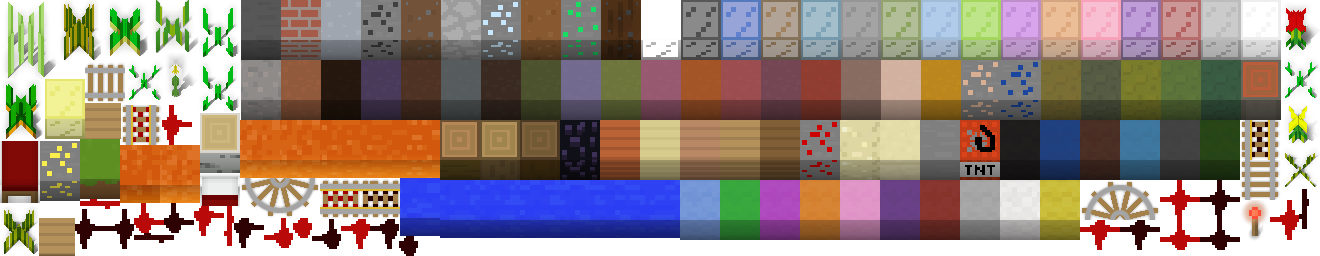
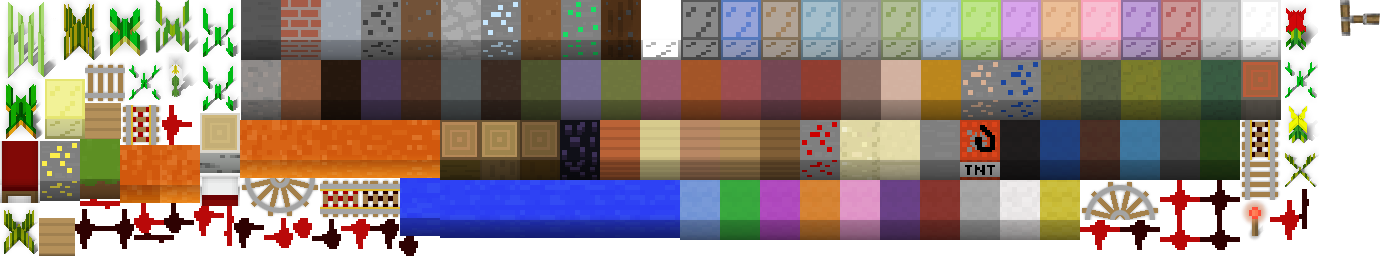
trying this interactive rebase thing

diff --git a/src/js/game/LevelMVC/LevelPlane.js b/src/js/game/LevelMVC/LevelPlane.js
@@ -87,11 +87,11 @@ module.exports = class LevelPlane extends Array {
   * Changes the block at a desired position to the desired block.
   * Important note: This is the cornerstone of block placing/destroying.
   */
-  setBlockAt(position, block) {
+  setBlockAt(position, block, force = false, skipRedstone = false) {
     this[this.coordinatesToIndex(position)] = block;
 
     let redstoneToRefresh = [];
-    if (block.isRedstone || block.blockType === '' || block.isConnectedToRedstone) {
+    if (!skipRedstone && (block.isRedstone || block.blockType === '' || block.isConnectedToRedstone)) {
       redstoneToRefresh = this.getRedstone();
     }
 
@@ -325,7 +325,134 @@ module.exports = class LevelPlane extends Array {
       posToRefresh.push(this.redstoneListON[i]);
     }
 
+    //once we're done updating redstoneWire states, check to see if doors should open/close
+    for (let i = 0; i < this.length; ++i) {
+      if (this[i].blockType === "doorIron") {
+        this[i].isPowered = this.powerCheck(this.indexToCoordinates(i));
+        if (this[i].isPowered && !this[i].isOpen) {
+          this.animateDoor(i, true);
+        } else if (!this[i].isPowered && this[i].isOpen) {
+          this.animateDoor(i, false);
+        }
+      }
+
+      if (this[i].blockType.startsWith("piston")) {
+        this[i].isPowered = this.powerCheck(this.indexToCoordinates(i));
+        if (this[i].isPowered) {
+          this.activatePiston(this.indexToCoordinates(i));
+          this.levelModel.controller.updateFowPlane();
+          this.levelModel.controller.updateShadingPlane();
+        } else if (!this[i].isPowered) {
+          this.deactivatePiston(this.indexToCoordinates(i));
+          this.levelModel.controller.updateFowPlane();
+          this.levelModel.controller.updateShadingPlane();
+        }
+      }
+    }
     return posToRefresh;
+  }
+
+  activatePiston(position) {
+    let neighbors = this.getOrthogonalBlocks(position);
+    let neighborPosition = this.getOrthogonalPositions(position);
+
+    switch (this[this.coordinatesToIndex(position)].blockType) {
+      case "pistonUp": {
+        if (neighbors.north.block.blockType !== "" && neighbors.north.block.blockType !== "pistonArm" ) {
+          let offset = [0,-1];
+          let blocksPositions = this.getBlocksToPush(neighborPosition[0], offset);
+          this.pushBlocks(blocksPositions, offset);
+        } else if (neighbors.north.block.blockType === "") {
+          let armBlock = new LevelBlock("pistonArm");
+          this.setBlockAt(neighborPosition[0], armBlock);
+        }
+        break;
+      }
+      case "pistonDown": {
+        if (neighbors.south.block.blockType !== "" && neighbors.south.block.blockType !== "pistonArm") {
+          let offset = [0,1];
+          let blocksPositions = this.getBlocksToPush(neighborPosition[1], offset);
+          this.pushBlocks(blocksPositions, offset);
+        } else if (neighbors.south.block.blockType === "") {
+          let armBlock = new LevelBlock("pistonArm");
+          this.setBlockAt(neighborPosition[1], armBlock);
+        }
+        break;
+      }
+      case "pistonRight": {
+        if (neighbors.east.block.blockType !== "" && neighbors.east.block.blockType !== "pistonArm") {
+          let offset = [1,0];
+          let blocksPositions = this.getBlocksToPush(neighborPosition[2], offset);
+          this.pushBlocks(blocksPositions, offset);
+        } else if (neighbors.east.block.blockType === "") {
+          let armBlock = new LevelBlock("pistonArm");
+          this.setBlockAt(neighborPosition[2], armBlock);
+        }
+        break;
+      }
+      case "pistonLeft": {
+        if (neighbors.west.block.blockType !== "" && neighbors.west.block.blockType !== "pistonArm") {
+          let offset = [-1,0];
+          let blocksPositions = this.getBlocksToPush(neighborPosition[3], offset);
+          this.pushBlocks(blocksPositions, offset);
+        } else if (neighbors.west.block.blockType === "") {
+          let armBlock = new LevelBlock("pistonArm");
+          this.setBlockAt(neighborPosition[3], armBlock);
+        }
+        break;
+      }
+    }
+  }
+
+  deactivatePiston(position) {
+    let neighborPosition = this.getOrthogonalPositions(position);
+    let emptyBlock = new LevelBlock("");
+
+    switch (this[this.coordinatesToIndex(position)].blockType) {
+      case "pistonUp": {
+        this.setBlockAt(neighborPosition[0], emptyBlock, false, true);
+        break;
+      }
+      case "pistonDown": {
+        this.setBlockAt(neighborPosition[1], emptyBlock, false, true);
+        break;
+      }
+      case "pistonRight": {
+        this.setBlockAt(neighborPosition[2], emptyBlock, false, true);
+        break;
+      }
+      case "pistonLeft": {
+        this.setBlockAt(neighborPosition[3], emptyBlock, false, true);
+        break;
+      }
+    }
+  }
+
+  pushBlocks(blocksPositions, offset) {
+    let armBlock = new LevelBlock("pistonArm");
+    // Need to check if the last index is up against the edge of the map, and break out if that's the case.
+    if (!this.inBounds([blocksPositions[blocksPositions.length - 1][0] + offset[0], blocksPositions[blocksPositions.length - 1][1] + offset[1]])) {
+      // Apparently me might NOT want this check? Or might? Design undecided.
+      //break;
+    }
+
+    for (let i = blocksPositions.length - 1; i >= 0; --i) {
+      let destination = [blocksPositions[i][0] + offset[0], blocksPositions[i][1] + offset[1]];
+      this.setBlockAt(destination, this.getBlockAt(blocksPositions[i]));
+      if (i === 0) {
+        this.setBlockAt(blocksPositions[i], armBlock);
+      }
+    }
+  }
+
+  getBlocksToPush(position, offset) {
+    let pushingBlocks = [];
+    let workingPosition = position;
+    while (this.inBounds(workingPosition) && this.getBlockAt(workingPosition).blockType !== "") {
+      pushingBlocks.push(workingPosition);
+      workingPosition = [workingPosition[0] + offset[0], workingPosition[1] + offset[1]];
+    }
+    return pushingBlocks;
   }
 
   /**

diff --git a/src/js/game/LevelMVC/LevelView.js b/src/js/game/LevelMVC/LevelView.js
@@ -174,6 +174,12 @@ module.exports = class LevelView {
 
       "pressurePlateUp": ["blocks", "PressurePlate_Up", -13, 0],
       "pressurePlateDown": ["blocks", "PressurePlate_Down", -13, 0],
+
+      "pistonUp": ["blocks", "Bricks", -13, 0],
+      "pistonDown": ["blocks", "Bricks", -13, 0],
+      "pistonLeft": ["blocks", "Bricks", -13, 0],
+      "pistonRight": ["blocks", "Bricks", -13, 0],
+      "pistonArm": ["blocks", "Piston_Arm", -13, 20],
     };
     this.actionPlaneBlocks = [];
     this.toDestroy = [];
@@ -1179,6 +1185,16 @@ module.exports = class LevelView {
   }
 
   refreshActionPlane(positions) {
+    // We need to add indices to refresh if there are other blocks in the action plane that might
+    // conflict with the drawing of refreshed blocks.
+    for (let i = 0; i < positions.length; ++i) {
+      if (positions[i][1] + 1 < this.controller.levelModel.actionPlane.height &&
+      this.controller.levelModel.actionPlane[this.controller.levelModel.actionPlane.coordinatesToIndex([positions[i][0], positions[i][1] + 1])].blockType !== "") {
+        positions.push([positions[i][0], positions[i][1] + 1]);
+      }
+    }
+
+    // Once all blocks that need to be refreshed are accounted for, go in and actually refresh.
     positions.forEach(position => {
       if (position) {
         const newBlock = this.controller.levelModel.actionPlane.getBlockAt(position);

diff --git a/src/test-build-only/levels.js b/src/test-build-only/levels.js
@@ -76,14 +76,14 @@ window.demoLevels = {
 
     actionPlane: [
       "", "", "", "", "", "", "", "", "", "",
-      "", "", "", "", "redstoneWire", "", "", "", "", "",
-      "", "", "", "", "pressurePlateUp", "", "", "", "", "",
-      "", "", "", "", "redstoneWire", "redstoneWire", "", "", "", "",
+      "", "pistonRight", "oreDiamond", "grass", "oreDiamond", "", "redstoneWire", "pistonDown", "", "",
+      "", "", "redstoneWire", "redstoneWire", "pressurePlateUp", "redstoneWire", "redstoneWire", "oreDiamond", "", "",
+      "", "", "", "", "redstoneWire", "", "", "grass", "oreDiamond", "",
+      "", "redstoneWire", "redstoneWire", "redstoneWire", "redstoneWire", "", "", "", "grass", "",
+      "", "", "", "", "redstoneWire", "", "", "", "grass", "",
+      "", "grass", "", "redstoneWire", "redstoneWire", "redstoneWire", "redstoneWire", "", "pistonUp", "",
       "", "", "", "", "", "", "", "", "", "",
-      "", "", "", "", "", "", "", "", "", "",
-      "", "", "", "", "", "", "", "", "", "",
-      "", "", "", "", "", "", "", "", "", "",
-      "", "", "", "", "", "", "", "", "", "",
+      "", "grass", "oreDiamond", "pistonLeft", "", "", "", "", "", "",
       "", "", "", "", "", "", "", "", "", "",
     ],
 

diff --git a/src/js/game/LevelMVC/LevelBlock.js b/src/js/game/LevelMVC/LevelBlock.js
@@ -113,11 +113,17 @@ module.exports = class LevelBlock {
     if (blockType.startsWith("pressurePlate")) {
       this.isEntity = true;
       this.isWalkable = true;
-      this.isUsable = true;
       this.isDestroyable = false;
       this.isTransparent = true;
       this.isConnectedToRedstone = true;
       this.isRedstoneBattery = blockType === 'pressurePlateUp' ? false : true;
+    }
+
+    if (blockType.startsWith("piston")) {
+      this.isEntity = true;
+      this.isDestroyable = false;
+      this.isTransparent = true;
+      this.isConnectedToRedstone = blockType !== "pistonArm";
     }
   }
 
